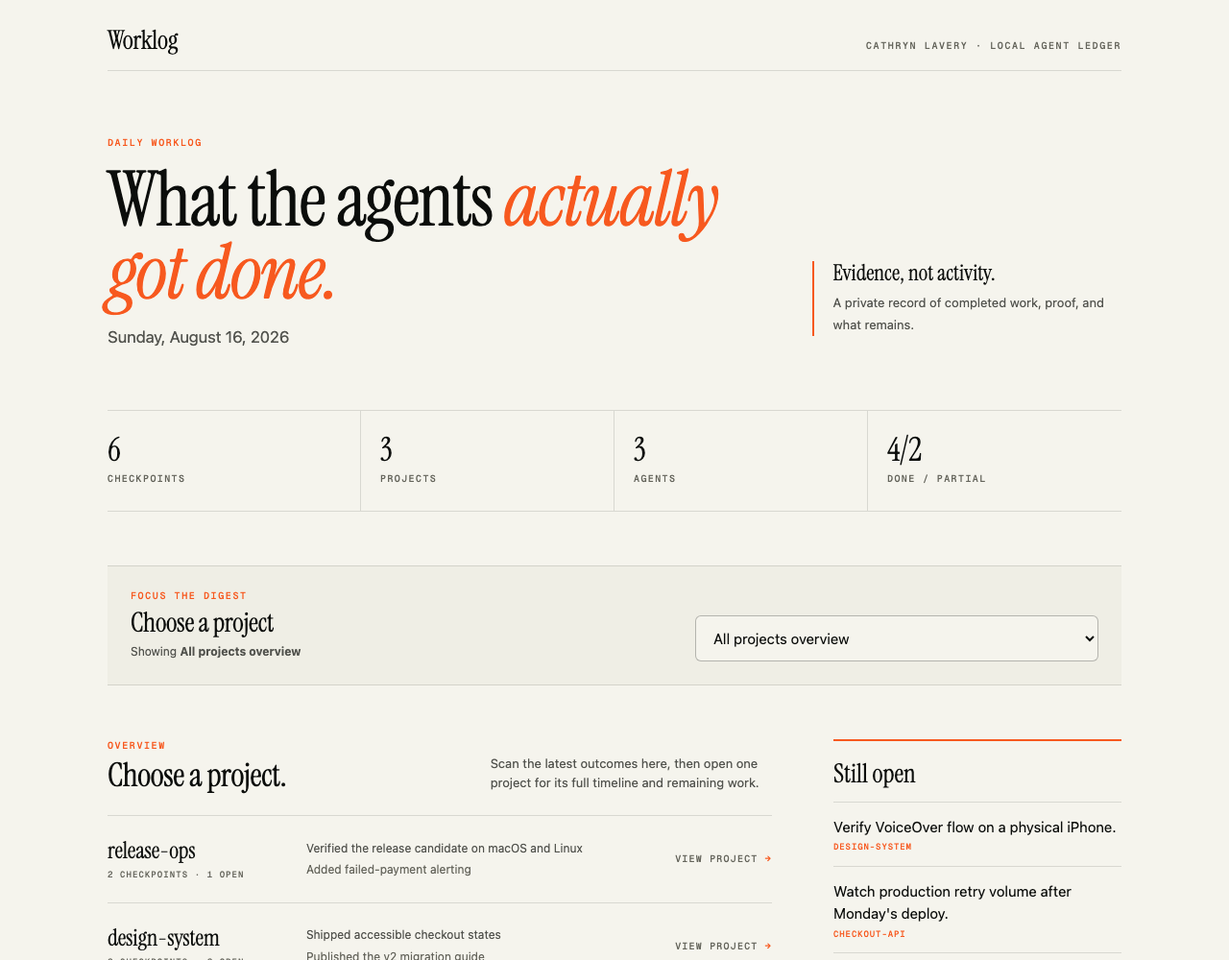
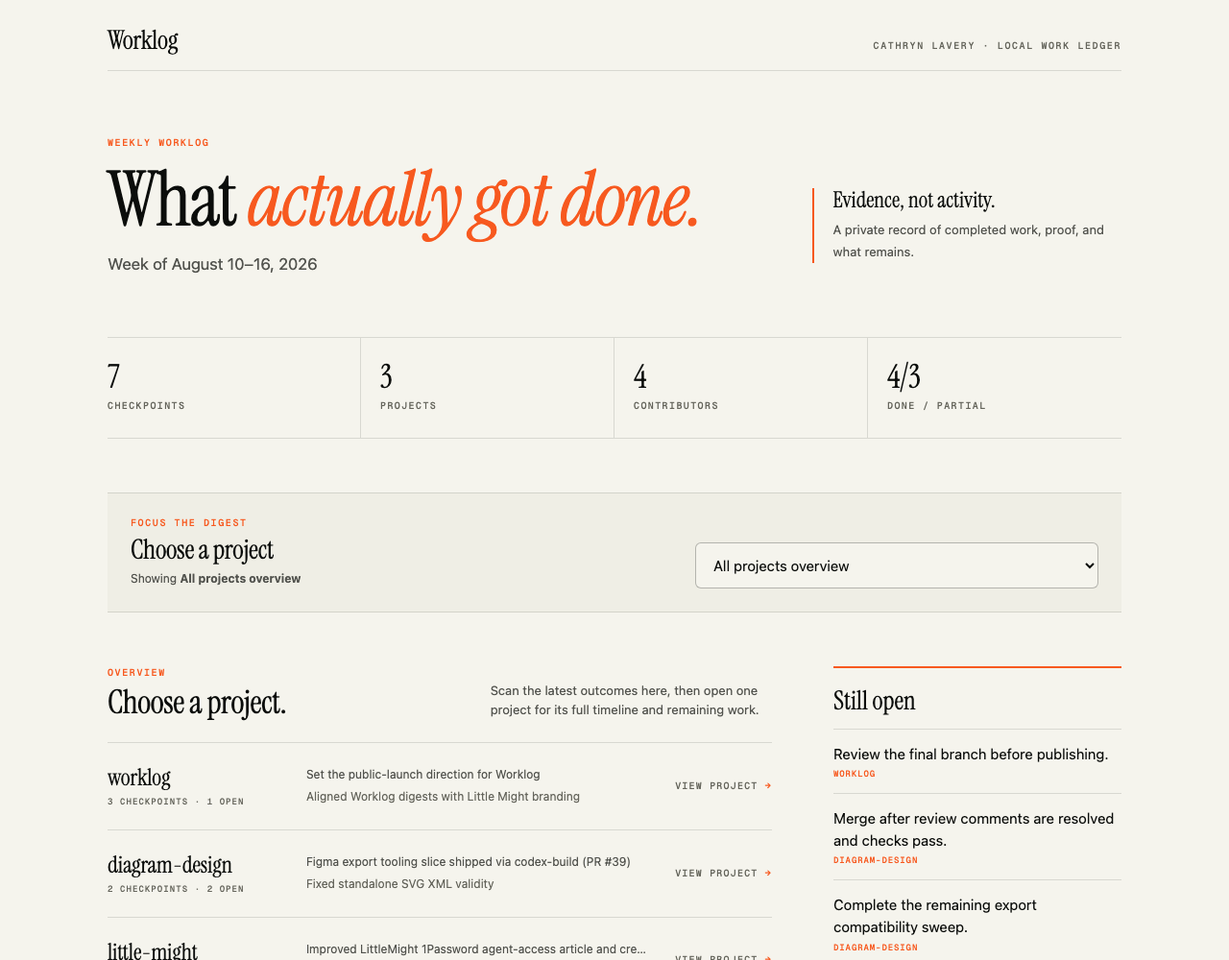
feat: make worklogs contributor-inclusive

diff --git a/docs/digest-preview.html b/docs/digest-preview.html
@@ -4,7 +4,7 @@
   <meta charset="utf-8">
   <meta name="viewport" content="width=device-width, initial-scale=1">
   <meta name="color-scheme" content="light">
-  <title>Daily Worklog — Sunday, August 16, 2026</title>
+  <title>Weekly Worklog — Week of August 10–16, 2026</title>
   <style>
     :root { --paper:#f5f4ed; --paper-2:#efeee5; --ink:#0b0d0b; --muted:#52534e;
       --soft:#65655c; --rule:rgba(11,13,11,.12); --rule-soft:rgba(11,13,11,.06);
@@ -152,22 +152,22 @@
   <main class="shell">
     <header class="site-header">
       <span class="wordmark">Worklog</span>
-      <span class="colophon">Cathryn Lavery · local agent ledger</span>
+      <span class="colophon">Cathryn Lavery · local work ledger</span>
     </header>
     <section class="masthead">
       <div>
-        <div class="eyebrow">Daily worklog</div>
-        <h1>What the agents <em>actually got done.</em></h1>
-        <p class="date">Sunday, August 16, 2026</p>
+        <div class="eyebrow">Weekly worklog</div>
+        <h1>What <em>actually got done.</em></h1>
+        <p class="date">Week of August 10–16, 2026</p>
       </div>
       <p class="hero-note"><strong>Evidence, not activity.</strong>
         <span>A private record of completed work, proof, and what remains.</span></p>
     </section>
     <section class="metrics" aria-label="Digest summary">
-      <div class="metric"><strong>6</strong><span>checkpoints</span></div>
+      <div class="metric"><strong>7</strong><span>checkpoints</span></div>
       <div class="metric"><strong>3</strong><span>projects</span></div>
-      <div class="metric"><strong>3</strong><span>agents</span></div>
-      <div class="metric"><strong>4/2</strong><span>done / partial</span></div>
+      <div class="metric"><strong>4</strong><span>contributors</span></div>
+      <div class="metric"><strong>4/3</strong><span>done / partial</span></div>
     </section>
     <section class="controls" aria-labelledby="project-picker-label">
       <div><span class="control-kicker">Focus the digest</span>
@@ -176,16 +176,16 @@
       </div>
       <select id="project-picker">
         <option value="overview">All projects overview</option>
-        <option value="project-0">release-ops (2)</option><option value="project-1">design-system (2)</option><option value="project-2">checkout-api (2)</option>
+        <option value="project-0">worklog (3)</option><option value="project-1">diagram-design (2)</option><option value="project-2">little-might (2)</option>
       </select>
     </section>
     <section class="digest-view" id="overview" data-digest-view>
       <div class="overview-layout">
-        <div><div class="overview-heading"><div><span class="section-kicker">Overview</span><h2>Choose a project.</h2></div><p>Scan the latest outcomes here, then open one project for its full timeline and remaining work.</p></div><div class="overview-grid"><button class="project-card" type="button" data-select-project="project-0"><span class="project-card-top"><strong>release-ops</strong><span aria-hidden="true">→</span></span><span class="project-count">2 checkpoints · 1 open</span><span class="project-preview"><span>Verified the release candidate on macOS and Linux</span><span>Added failed-payment alerting</span></span><span class="project-link">View project</span></button><button class="project-card" type="button" data-select-project="project-1"><span class="project-card-top"><strong>design-system</strong><span aria-hidden="true">→</span></span><span class="project-count">2 checkpoints · 2 open</span><span class="project-preview"><span>Shipped accessible checkout states</span><span>Published the v2 migration guide</span></span><span class="project-link">View project</span></button><button class="project-card" type="button" data-select-project="project-2"><span class="project-card-top"><strong>checkout-api</strong><span aria-hidden="true">→</span></span><span class="project-count">2 checkpoints · 1 open</span><span class="project-preview"><span>Closed the inventory reservation race</span><span>Cut cold-start latency by 38%</span></span><span class="project-link">View project</span></button></div></div>
-        <aside><section class="open"><h2>Still open</h2><ul><li><span>Verify VoiceOver flow on a physical iPhone.</span><small>design-system</small></li><li><span>Watch production retry volume after Monday&#x27;s deploy.</span><small>checkout-api</small></li><li><span>Add the React Native example.</span><small>design-system</small></li><li><span>Tune the retry threshold after one week of data.</span><small>release-ops</small></li></ul></section></aside>
+        <div><div class="overview-heading"><div><span class="section-kicker">Overview</span><h2>Choose a project.</h2></div><p>Scan the latest outcomes here, then open one project for its full timeline and remaining work.</p></div><div class="overview-grid"><button class="project-card" type="button" data-select-project="project-0"><span class="project-card-top"><strong>worklog</strong><span aria-hidden="true">→</span></span><span class="project-count">3 checkpoints · 1 open</span><span class="project-preview"><span>Set the public-launch direction for Worklog</span><span>Aligned Worklog digests with Little Might branding</span></span><span class="project-link">View project</span></button><button class="project-card" type="button" data-select-project="project-1"><span class="project-card-top"><strong>diagram-design</strong><span aria-hidden="true">→</span></span><span class="project-count">2 checkpoints · 2 open</span><span class="project-preview"><span>Figma export tooling slice shipped via codex-build (PR #39)</span><span>Fixed standalone SVG XML validity</span></span><span class="project-link">View project</span></button><button class="project-card" type="button" data-select-project="project-2"><span class="project-card-top"><strong>little-might</strong><span aria-hidden="true">→</span></span><span class="project-count">2 checkpoints · 0 open</span><span class="project-preview"><span>Improved LittleMight 1Password agent-access article and created short-form video packet</span><span>Drafted LittleMight post on 1Password access for AI agents</span></span><span class="project-link">View project</span></button></div></div>
+        <aside><section class="open"><h2>Still open</h2><ul><li><span>Review the final branch before publishing.</span><small>worklog</small></li><li><span>Merge after review comments are resolved and checks pass.</span><small>diagram-design</small></li><li><span>Complete the remaining export compatibility sweep.</span><small>diagram-design</small></li></ul></section></aside>
       </div>
     </section>
-    <section class="digest-view" id="project-0" data-digest-view hidden><button class="back-button" type="button" data-select-project="overview">← All projects</button><div class="project-layout"><section class="project-detail"><div class="project-heading"><h2 tabindex="-1">release-ops</h2><span>2 checkpoints</span></div><article class="checkpoint"><div class="checkpoint-rail"><span class="dot complete"></span><time>12:04</time></div><div class="checkpoint-body"><div class="checkpoint-meta"><span>hermes</span><span>completed</span></div><h3>Verified the release candidate on macOS and Linux</h3><details><summary>Outcome &amp; evidence</summary><div class="detail-label">Accomplished</div><ul><li>Ran install, upgrade, rollback, and clean-machine smoke tests.</li></ul><div class="detail-label">Evidence</div><ul><li>CI run 31767359967; release checklist 14/14</li></ul></details></div></article><article class="checkpoint"><div class="checkpoint-rail"><span class="dot partial"></span><time>04:26</time></div><div class="checkpoint-body"><div class="checkpoint-meta"><span>hermes</span><span>partial</span></div><h3>Added failed-payment alerting</h3><details><summary>Outcome &amp; evidence</summary><div class="detail-label">Accomplished</div><ul><li>Routed failed payment events into the on-call digest with deduplication.</li></ul><div class="detail-label">Evidence</div><ul><li>Fixture replay: 12 events → 3 actionable alerts</li></ul></details></div></article></section><aside><section class="open"><h2>Still open here</h2><ul><li><span>Tune the retry threshold after one week of data.</span></li></ul></section></aside></div></section><section class="digest-view" id="project-1" data-digest-view hidden><button class="back-button" type="button" data-select-project="overview">← All projects</button><div class="project-layout"><section class="project-detail"><div class="project-heading"><h2 tabindex="-1">design-system</h2><span>2 checkpoints</span></div><article class="checkpoint"><div class="checkpoint-rail"><span class="dot complete"></span><time>11:31</time></div><div class="checkpoint-body"><div class="checkpoint-meta"><span>claude</span><span>completed</span></div><h3>Shipped accessible checkout states</h3><details><summary>Outcome &amp; evidence</summary><div class="detail-label">Accomplished</div><ul><li>Added keyboard, focus, error, and reduced-motion states to checkout.</li></ul><div class="detail-label">Evidence</div><ul><li>axe: 0 violations; screenshots in artifacts/checkout-a11y</li></ul></details></div></article><article class="checkpoint"><div class="checkpoint-rail"><span class="dot partial"></span><time>06:05</time></div><div class="checkpoint-body"><div class="checkpoint-meta"><span>claude</span><span>partial</span></div><h3>Published the v2 migration guide</h3><details><summary>Outcome &amp; evidence</summary><div class="detail-label">Accomplished</div><ul><li>Documented every breaking token rename with before/after examples.</li></ul><div class="detail-label">Evidence</div><ul><li>docs/migration-v2.md; link check passed</li></ul></details></div></article></section><aside><section class="open"><h2>Still open here</h2><ul><li><span>Verify VoiceOver flow on a physical iPhone.</span></li><li><span>Add the React Native example.</span></li></ul></section></aside></div></section><section class="digest-view" id="project-2" data-digest-view hidden><button class="back-button" type="button" data-select-project="overview">← All projects</button><div class="project-layout"><section class="project-detail"><div class="project-heading"><h2 tabindex="-1">checkout-api</h2><span>2 checkpoints</span></div><article class="checkpoint"><div class="checkpoint-rail"><span class="dot complete"></span><time>10:42</time></div><div class="checkpoint-body"><div class="checkpoint-meta"><span>codex</span><span>completed</span></div><h3>Closed the inventory reservation race</h3><details><summary>Outcome &amp; evidence</summary><div class="detail-label">Accomplished</div><ul><li>Made reservation writes idempotent under concurrent retries.</li></ul><div class="detail-label">Evidence</div><ul><li>184 tests passed; commit 8c4a7f2</li></ul></details></div></article><article class="checkpoint"><div class="checkpoint-rail"><span class="dot complete"></span><time>08:18</time></div><div class="checkpoint-body"><div class="checkpoint-meta"><span>codex</span><span>completed</span></div><h3>Cut cold-start latency by 38%</h3><details><summary>Outcome &amp; evidence</summary><div class="detail-label">Accomplished</div><ul><li>Moved schema loading out of the request path and warmed the cache.</li></ul><div class="detail-label">Evidence</div><ul><li>Benchmark: p95 812ms → 503ms across 500 cold starts</li></ul></details></div></article></section><aside><section class="open"><h2>Still open here</h2><ul><li><span>Watch production retry volume after Monday&#x27;s deploy.</span></li></ul></section></aside></div></section>
+    <section class="digest-view" id="project-0" data-digest-view hidden><button class="back-button" type="button" data-select-project="overview">← All projects</button><div class="project-layout"><section class="project-detail"><div class="project-heading"><h2 tabindex="-1">worklog</h2><span>3 checkpoints</span></div><article class="checkpoint"><div class="checkpoint-rail"><span class="dot partial"></span><time>13:15</time></div><div class="checkpoint-body"><div class="checkpoint-meta"><span>cathryn</span><span>partial</span></div><h3>Set the public-launch direction for Worklog</h3><details><summary>Outcome &amp; evidence</summary><div class="detail-label">Accomplished</div><ul><li>Defined the project-first digest, Little Might visual language, and human-inclusive positioning.</li></ul><div class="detail-label">Evidence</div><ul><li>Direction reviewed in the live local digest preview.</li></ul></details></div></article><article class="checkpoint"><div class="checkpoint-rail"><span class="dot complete"></span><time>12:50</time></div><div class="checkpoint-body"><div class="checkpoint-meta"><span>codex</span><span>completed</span></div><h3>Aligned Worklog digests with Little Might branding</h3><details><summary>Outcome &amp; evidence</summary><div class="detail-label">Accomplished</div><ul><li>Applied the warm-paper palette, serif-led hierarchy, restrained coral accents, and editorial project rows.</li></ul><div class="detail-label">Evidence</div><ul><li>Local commit 92dbcaf; 94 tests passed; desktop and mobile previews verified.</li></ul></details></div></article><article class="checkpoint"><div class="checkpoint-rail"><span class="dot complete"></span><time>12:45</time></div><div class="checkpoint-body"><div class="checkpoint-meta"><span>codex</span><span>completed</span></div><h3>Redesigned Worklog HTML digests for project navigation</h3><details><summary>Outcome &amp; evidence</summary><div class="detail-label">Accomplished</div><ul><li>Added a bounded project overview, project picker, focused timelines, and project-specific open work.</li></ul><div class="detail-label">Evidence</div><ul><li>Local commit da5aabd; real daily and weekly digests generated with private permissions.</li></ul></details></div></article></section><aside><section class="open"><h2>Still open here</h2><ul><li><span>Review the final branch before publishing.</span></li></ul></section></aside></div></section><section class="digest-view" id="project-1" data-digest-view hidden><button class="back-button" type="button" data-select-project="overview">← All projects</button><div class="project-layout"><section class="project-detail"><div class="project-heading"><h2 tabindex="-1">diagram-design</h2><span>2 checkpoints</span></div><article class="checkpoint"><div class="checkpoint-rail"><span class="dot partial"></span><time>13:14</time></div><div class="checkpoint-body"><div class="checkpoint-meta"><span>claude</span><span>partial</span></div><h3>Figma export tooling slice shipped via codex-build (PR #39)</h3><details><summary>Outcome &amp; evidence</summary><div class="detail-label">Accomplished</div><ul><li>Shipped the first Figma export tooling slice through the contributor workflow.</li></ul><div class="detail-label">Evidence</div><ul><li>Public pull request #39 opened with current-head checks.</li></ul></details></div></article><article class="checkpoint"><div class="checkpoint-rail"><span class="dot partial"></span><time>13:01</time></div><div class="checkpoint-body"><div class="checkpoint-meta"><span>claude</span><span>partial</span></div><h3>Fixed standalone SVG XML validity</h3><details><summary>Outcome &amp; evidence</summary><div class="detail-label">Accomplished</div><ul><li>Preserved valid standalone SVG output across export paths.</li></ul><div class="detail-label">Evidence</div><ul><li>Targeted SVG fixtures and XML parsing checks passed.</li></ul></details></div></article></section><aside><section class="open"><h2>Still open here</h2><ul><li><span>Merge after review comments are resolved and checks pass.</span></li><li><span>Complete the remaining export compatibility sweep.</span></li></ul></section></aside></div></section><section class="digest-view" id="project-2" data-digest-view hidden><button class="back-button" type="button" data-select-project="overview">← All projects</button><div class="project-layout"><section class="project-detail"><div class="project-heading"><h2 tabindex="-1">little-might</h2><span>2 checkpoints</span></div><article class="checkpoint"><div class="checkpoint-rail"><span class="dot complete"></span><time>18:06</time></div><div class="checkpoint-body"><div class="checkpoint-meta"><span>hermes</span><span>completed</span></div><h3>Improved LittleMight 1Password agent-access article and created short-form video packet</h3><details><summary>Outcome &amp; evidence</summary><div class="detail-label">Accomplished</div><ul><li>Tightened the operator angle and turned the article into a short-form video packet.</li></ul><div class="detail-label">Evidence</div><ul><li>Editorial revision and short-form packet completed in the Little Might workspace.</li></ul></details></div></article><article class="checkpoint"><div class="checkpoint-rail"><span class="dot complete"></span><time>14:51</time></div><div class="checkpoint-body"><div class="checkpoint-meta"><span>hermes</span><span>completed</span></div><h3>Drafted LittleMight post on 1Password access for AI agents</h3><details><summary>Outcome &amp; evidence</summary><div class="detail-label">Accomplished</div><ul><li>Drafted a practical article on giving AI agents scoped credential access.</li></ul><div class="detail-label">Evidence</div><ul><li>Draft completed in the Little Might editorial workspace.</li></ul></details></div></article></section><aside><section class="open"><h2>Still open here</h2><ul><li class="empty">Nothing left open.</li></ul></section></aside></div></section>
     <footer>
       <span>Generated by Worklog · private, local, evidence-based</span>
       <span>2026-08-16 21:05 PDT</span>

diff --git a/scripts/generate_readme_preview.py b/scripts/generate_readme_preview.py
@@ -1,5 +1,5 @@
 #!/usr/bin/env python3
-"""Generate the sanitized HTML digest used for README screenshots."""
+"""Generate a public-safe digest from real Cathryn projects for README screenshots."""
 
 from __future__ import annotations
 
@@ -16,64 +16,75 @@ from worklog.view import collect_entries, filter_entries
 
 
 CHECKPOINTS = {
+    "cathryn": [
+        (
+            "2026-08-16T20:15:00Z",
+            "Set the public-launch direction for Worklog",
+            "worklog",
+            "partial",
+            "Defined the project-first digest, Little Might visual language, and human-inclusive positioning.",
+            "Direction reviewed in the live local digest preview.",
+            "Review the final branch before publishing.",
+        ),
+    ],
     "codex": [
         (
-            "2026-08-16T17:42:00Z",
-            "Closed the inventory reservation race",
-            "checkout-api",
+            "2026-08-16T19:50:44Z",
+            "Aligned Worklog digests with Little Might branding",
+            "worklog",
             "completed",
-            "Made reservation writes idempotent under concurrent retries.",
-            "184 tests passed; commit 8c4a7f2",
-            "Watch production retry volume after Monday's deploy.",
+            "Applied the warm-paper palette, serif-led hierarchy, restrained coral accents, and editorial project rows.",
+            "Local commit 92dbcaf; 94 tests passed; desktop and mobile previews verified.",
+            None,
         ),
         (
-            "2026-08-16T15:18:00Z",
-            "Cut cold-start latency by 38%",
-            "checkout-api",
+            "2026-08-16T19:45:50Z",
+            "Redesigned Worklog HTML digests for project navigation",
+            "worklog",
             "completed",
-            "Moved schema loading out of the request path and warmed the cache.",
-            "Benchmark: p95 812ms → 503ms across 500 cold starts",
+            "Added a bounded project overview, project picker, focused timelines, and project-specific open work.",
+            "Local commit da5aabd; real daily and weekly digests generated with private permissions.",
             None,
         ),
     ],
     "claude": [
         (
-            "2026-08-16T18:31:00Z",
-            "Shipped accessible checkout states",
-            "design-system",
-            "completed",
-            "Added keyboard, focus, error, and reduced-motion states to checkout.",
-            "axe: 0 violations; screenshots in artifacts/checkout-a11y",
-            "Verify VoiceOver flow on a physical iPhone.",
+            "2026-08-12T20:14:55Z",
+            "Figma export tooling slice shipped via codex-build (PR #39)",
+            "diagram-design",
+            "partial",
+            "Shipped the first Figma export tooling slice through the contributor workflow.",
+            "Public pull request #39 opened with current-head checks.",
+            "Merge after review comments are resolved and checks pass.",
         ),
         (
-            "2026-08-16T13:05:00Z",
-            "Published the v2 migration guide",
-            "design-system",
+            "2026-08-12T20:01:13Z",
+            "Fixed standalone SVG XML validity",
+            "diagram-design",
             "partial",
-            "Documented every breaking token rename with before/after examples.",
-            "docs/migration-v2.md; link check passed",
-            "Add the React Native example.",
+            "Preserved valid standalone SVG output across export paths.",
+            "Targeted SVG fixtures and XML parsing checks passed.",
+            "Complete the remaining export compatibility sweep.",
         ),
     ],
     "hermes": [
         (
-            "2026-08-16T19:04:00Z",
-            "Verified the release candidate on macOS and Linux",
-            "release-ops",
+            "2026-08-12T01:06:57Z",
+            "Improved LittleMight 1Password agent-access article and created short-form video packet",
+            "little-might",
             "completed",
-            "Ran install, upgrade, rollback, and clean-machine smoke tests.",
-            "CI run 31767359967; release checklist 14/14",
+            "Tightened the operator angle and turned the article into a short-form video packet.",
+            "Editorial revision and short-form packet completed in the Little Might workspace.",
             None,
         ),
         (
-            "2026-08-16T11:26:00Z",
-            "Added failed-payment alerting",
-            "release-ops",
-            "partial",
-            "Routed failed payment events into the on-call digest with deduplication.",
-            "Fixture replay: 12 events → 3 actionable alerts",
-            "Tune the retry threshold after one week of data.",
+            "2026-08-11T21:51:22Z",
+            "Drafted LittleMight post on 1Password access for AI agents",
+            "little-might",
+            "completed",
+            "Drafted a practical article on giving AI agents scoped credential access.",
+            "Draft completed in the Little Might editorial workspace.",
+            None,
         ),
     ],
 }
@@ -125,13 +136,13 @@ def main() -> None:
         for agent, checkpoints in CHECKPOINTS.items():
             write_fixture(ledger, agent, checkpoints)
         day = dt.date(2026, 8, 16)
-        since, until = digest_window("daily", day=day)
+        since, until = digest_window("weekly", day=day)
         entries = filter_entries(
             collect_entries(ledger), since=since, until=until
         )
         digest = build_digest(
             entries,
-            period="daily",
+            period="weekly",
             since=since,
             until=until,
             generated_at=dt.datetime(2026, 8, 16, 21, 5).astimezone(),

diff --git a/worklog/digest.py b/worklog/digest.py
@@ -477,12 +477,12 @@ def build_digest(
   <main class="shell">
     <header class="site-header">
       <span class="wordmark">Worklog</span>
-      <span class="colophon">Cathryn Lavery · local agent ledger</span>
+      <span class="colophon">Cathryn Lavery · local work ledger</span>
     </header>
     <section class="masthead">
       <div>
         <div class="eyebrow">{period_name} worklog</div>
-        <h1>What the agents <em>actually got done.</em></h1>
+        <h1>What <em>actually got done.</em></h1>
         <p class="date">{_safe(label)}</p>
       </div>
       <p class="hero-note"><strong>Evidence, not activity.</strong>
@@ -491,7 +491,7 @@ def build_digest(
     <section class="metrics" aria-label="Digest summary">
       <div class="metric"><strong>{len(selected)}</strong><span>checkpoints</span></div>
       <div class="metric"><strong>{len(projects)}</strong><span>projects</span></div>
-      <div class="metric"><strong>{len(agents)}</strong><span>agents</span></div>
+      <div class="metric"><strong>{len(agents)}</strong><span>contributors</span></div>
       <div class="metric"><strong>{completed}/{partial}</strong><span>done / partial</span></div>
     </section>
     <section class="controls" aria-labelledby="project-picker-label">

diff --git a/tests/test_report.py b/tests/test_report.py
@@ -37,7 +37,7 @@ class ReportTests(TempLedger):
 
         report = build_report(collect_entries(), since=since, until=until)
 
-        self.assertIn("3 checkpoints across 2 projects and 2 agents.", report)
+        self.assertIn("3 checkpoints across 2 projects and 2 contributors.", report)
         self.assertLess(report.index("## alpha"), report.index("## beta"))
         self.assertLess(report.index("Alpha newer"), report.index("Alpha older"))
 
@@ -82,7 +82,7 @@ class ReportTests(TempLedger):
         report = build_report([], since=since, until=since)
 
         self.assertTrue(report.startswith("# Worklog — 2026-08-13\n"))
-        self.assertIn("0 checkpoints across 0 projects and 0 agents.", report)
+        self.assertIn("0 checkpoints across 0 projects and 0 contributors.", report)
         self.assertIn("Nothing was recorded in this window.", report)
         self.assertIn("No remaining items were recorded.", report)
 

diff --git a/tests/test_digest.py b/tests/test_digest.py
@@ -63,7 +63,9 @@ class DigestTests(TempLedger):
         self.assertIn("--paper:#f5f4ed", digest)
         self.assertIn("--accent:#f7591f", digest)
         self.assertIn('--font-serif:"Instrument Serif"', digest)
-        self.assertIn("Cathryn Lavery · local agent ledger", digest)
+        self.assertIn("Cathryn Lavery · local work ledger", digest)
+        self.assertIn("What <em>actually got done.</em>", digest)
+        self.assertIn("<span>contributors</span>", digest)
 
     def test_project_selector_indexes_every_project_and_limits_overview_cards(self) -> None:
         checkpoints = [

diff --git a/worklog/report.py b/worklog/report.py
@@ -123,7 +123,7 @@ def build_report(
     summary = (
         f"{_count_label(len(selected), 'checkpoint')} across "
         f"{_count_label(len(projects), 'project')} and "
-        f"{_count_label(len(agents), 'agent')}."
+        f"{_count_label(len(agents), 'contributor')}."
     )
     if not selected:
         summary += " Nothing was recorded in this window."

diff --git a/README.md b/README.md
@@ -1,14 +1,16 @@
 # Worklog
 
-**Agent transcripts tell you everything they did. Worklog tells you what shipped.**
+**Worklog keeps one evidence-based record of what you and your agents actually got done.**
 
 [![CI](https://github.com/cathrynlavery/worklog/actions/workflows/ci.yml/badge.svg)](https://github.com/cathrynlavery/worklog/actions/workflows/ci.yml)
 [![Python 3.10+](https://img.shields.io/badge/python-3.10%2B-141414)](https://www.python.org/)
 [![MIT license](https://img.shields.io/badge/license-MIT-f06a3c)](LICENSE)
 
-![A daily Worklog digest showing agent checkpoints, projects, and remaining work](docs/screenshots/digest.png)
+![A weekly Worklog digest based on Cathryn's real projects, showing checkpoints, contributors, and remaining work](docs/screenshots/digest.png)
 
-Worklog is a private, evidence-required journal for Claude Code, Codex, and any other agent that can run a shell command. It records verified outcomes in plain Markdown, then turns them into daily and weekly reports you can actually scan.
+This is a curated, public-safe week from Cathryn's real Worklog, Diagram Design, and Little Might projects—not generic demo data. Private operations and internal evidence are excluded.
+
+Worklog is a private, evidence-required journal for you, Claude Code, Codex, and any other agent that can run a shell command. It records verified outcomes in plain Markdown, then turns them into daily and weekly reports you can actually scan.
 
 No cloud account. No telemetry. No database. No transcript dump.
 
@@ -23,11 +25,11 @@ Coding agents created the same problem at a different scale. They can work acros
 - What shipped?
 - What evidence proves it?
 - What is still open?
-- Which agent worked on which project?
+- Who worked on which project?
 
 Worklog makes the checkpoint—not the conversation—the unit of progress.
 
-> **A material task is not complete until the agent can name the outcome and the evidence.**
+> **A material task is not complete until the checkpoint names the outcome and the evidence.**
 
 ---
 
@@ -36,7 +38,7 @@ Worklog makes the checkpoint—not the conversation—the unit of progress.
 | | |
 |---|---|
 | **Evidence-required checkpoints** | Every record needs a test, commit, URL, run ID, or artifact path. |
-| **One readable ledger per session** | Human-readable Markdown grouped by agent and stable session ID. |
+| **One readable ledger per session** | Human-readable Markdown grouped by contributor and stable session ID. |
 | **Daily + weekly HTML digests** | Self-contained, responsive summaries with project navigation, timelines, and open work. |
 | **Automatic nightly generation** | Native LaunchAgent support on macOS and cron support on Linux. |
 | **Private local storage** | Directories use `0700`; checkpoint, report, digest, and log files use `0600`. |

diff --git a/CHANGELOG.md b/CHANGELOG.md
@@ -9,7 +9,7 @@ All notable changes to Worklog are documented here.
 - Evidence-required checkpoints grouped by stable agent session.
 - Claude Code, Codex, and generic-agent adapters.
 - Private Markdown daily reports and scheduled report generation on macOS and Linux.
-- Self-contained daily and weekly HTML digests with a compact project overview, project selector, focused timelines, agent/status labels, expandable evidence, and open-item rollups.
+- Self-contained daily and weekly HTML digests with a compact project overview, project selector, focused timelines, contributor/status labels, expandable evidence, and open-item rollups.
 - Little Might-aligned digest styling with a warm-paper palette, serif-led hierarchy, restrained coral accents, and editorial hairline rows.
 - Nightly HTML digest scheduling with `worklog install-digests`.
 - Ledger import with idempotent conflict-aware merge mode.
